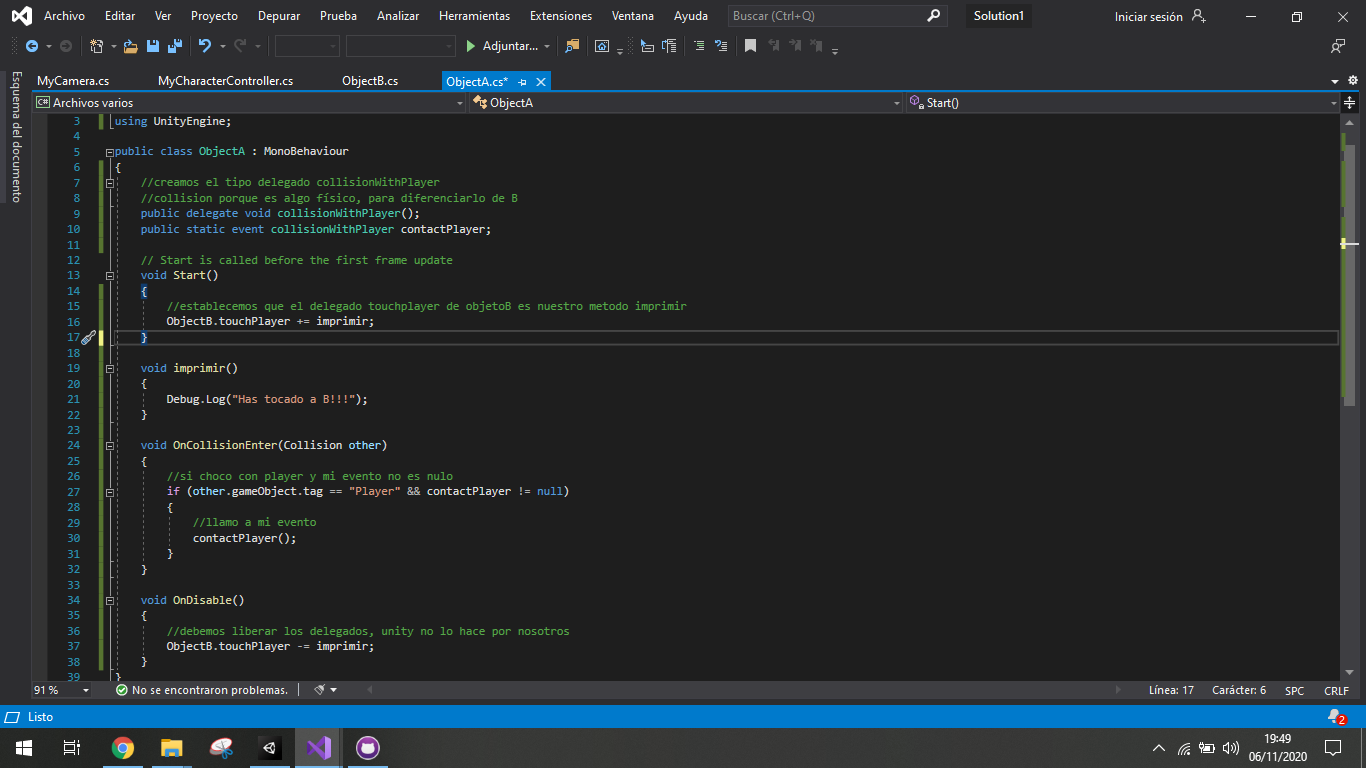
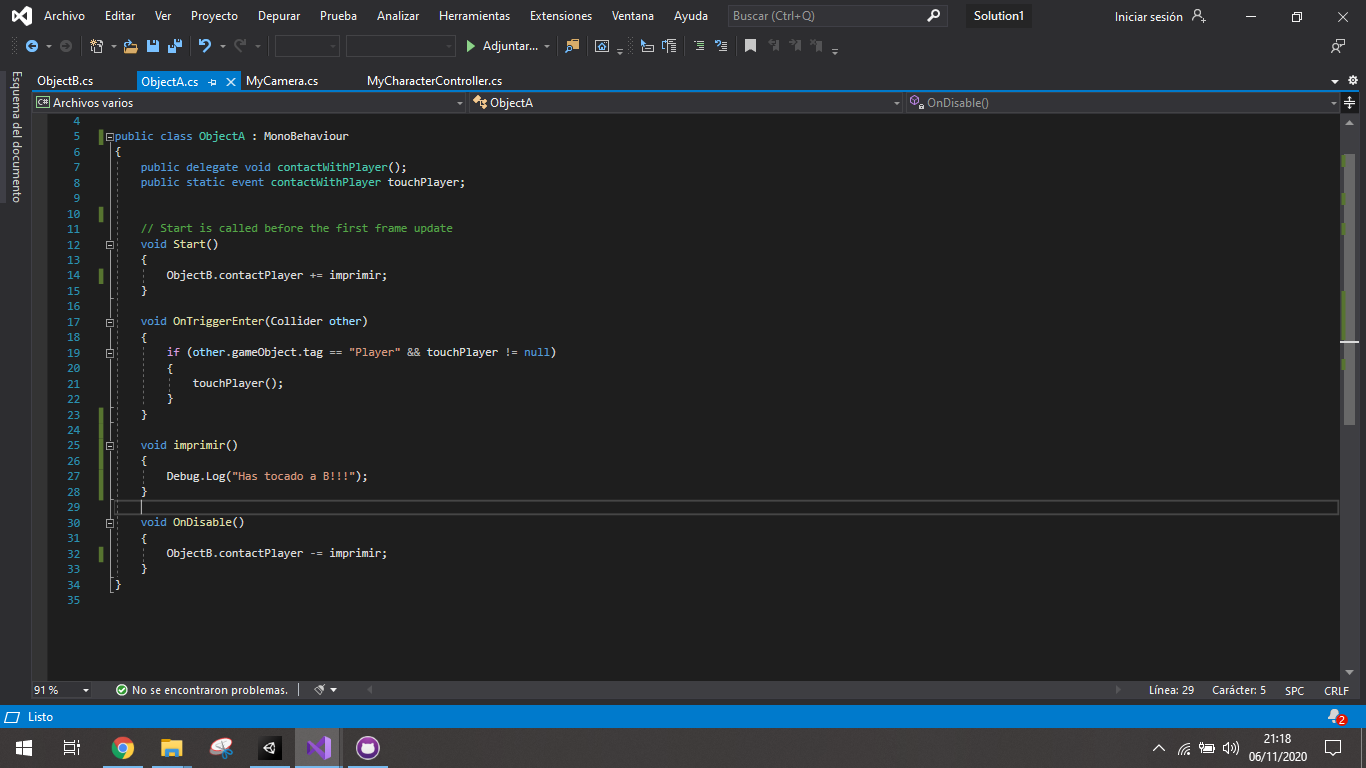
correccion fotos

diff --git a/ObjectB.cs b/ObjectB.cs
@@ -4,24 +4,18 @@ using UnityEngine;
 
 public class ObjectB : MonoBehaviour
 {
-    public delegate void contactWithPlayer();
-    public static event contactWithPlayer touchPlayer;
-
+    //creamos el tipo delegado collisionWithPlayer
+    //collision porque es algo físico, para diferenciarlo de A
+    public delegate void collisionWithPlayer();
+    public static event collisionWithPlayer contactPlayer;
     public int contador_;
 
     // Start is called before the first frame update
     void Start()
     {
         contador_ = 0;
-        ObjectA.contactPlayer += incrementarContador;
-    }
-
-    void OnTriggerEnter(Collider other)
-    {
-        if (other.gameObject.tag == "Player" && touchPlayer != null)
-        {
-            touchPlayer();
-        }
+        //establecemos que el delegado touchplayer de objetoB es nuestro metodo imprimir
+        ObjectA.touchPlayer += incrementarContador;
     }
 
     void incrementarContador()
@@ -29,8 +23,19 @@ public class ObjectB : MonoBehaviour
         contador_++;
     }
 
+    void OnCollisionEnter(Collision other)
+    {
+        //si choco con player y mi evento no es nulo
+        if (other.gameObject.tag == "Player" && contactPlayer != null)
+        {
+            //llamo a mi evento
+            contactPlayer();
+        }
+    }
+    
     void OnDisable()
     {
-        ObjectA.contactPlayer -= incrementarContador;
+        //debemos liberar los delegados, unity no lo hace por nosotros
+        ObjectA.touchPlayer -= incrementarContador;
     }
 }

diff --git a/ObjectA.cs b/ObjectA.cs
@@ -4,16 +4,22 @@ using UnityEngine;
 
 public class ObjectA : MonoBehaviour
 {
-    //creamos el tipo delegado collisionWithPlayer
-    //collision porque es algo físico, para diferenciarlo de B
-    public delegate void collisionWithPlayer();
-    public static event collisionWithPlayer contactPlayer;
+    public delegate void contactWithPlayer();
+    public static event contactWithPlayer touchPlayer;
+
 
     // Start is called before the first frame update
     void Start()
     {
-        //establecemos que el delegado touchplayer de objetoB es nuestro metodo imprimir
-        ObjectB.touchPlayer += imprimir;
+        ObjectB.contactPlayer += imprimir;
+    }
+
+    void OnTriggerEnter(Collider other)
+    {
+        if (other.gameObject.tag == "Player" && touchPlayer != null)
+        {
+            touchPlayer();
+        }
     }
 
     void imprimir()
@@ -21,19 +27,8 @@ public class ObjectA : MonoBehaviour
         Debug.Log("Has tocado a B!!!");
     }
 
-    void OnCollisionEnter(Collision other)
-    {
-        //si choco con player y mi evento no es nulo
-        if (other.gameObject.tag == "Player" && contactPlayer != null)
-        {
-            //llamo a mi evento
-            contactPlayer();
-        }
-    }
-    
     void OnDisable()
     {
-        //debemos liberar los delegados, unity no lo hace por nosotros
-        ObjectB.touchPlayer -= imprimir;
+        ObjectB.contactPlayer -= imprimir;
     }
 }

diff --git a/README.md b/README.md
@@ -26,7 +26,5 @@ Tipo A
 
 Tipo B
 ![imagen](/media/1.5.png)
-
-
 ![gif](/media/1.6.gif)
 
